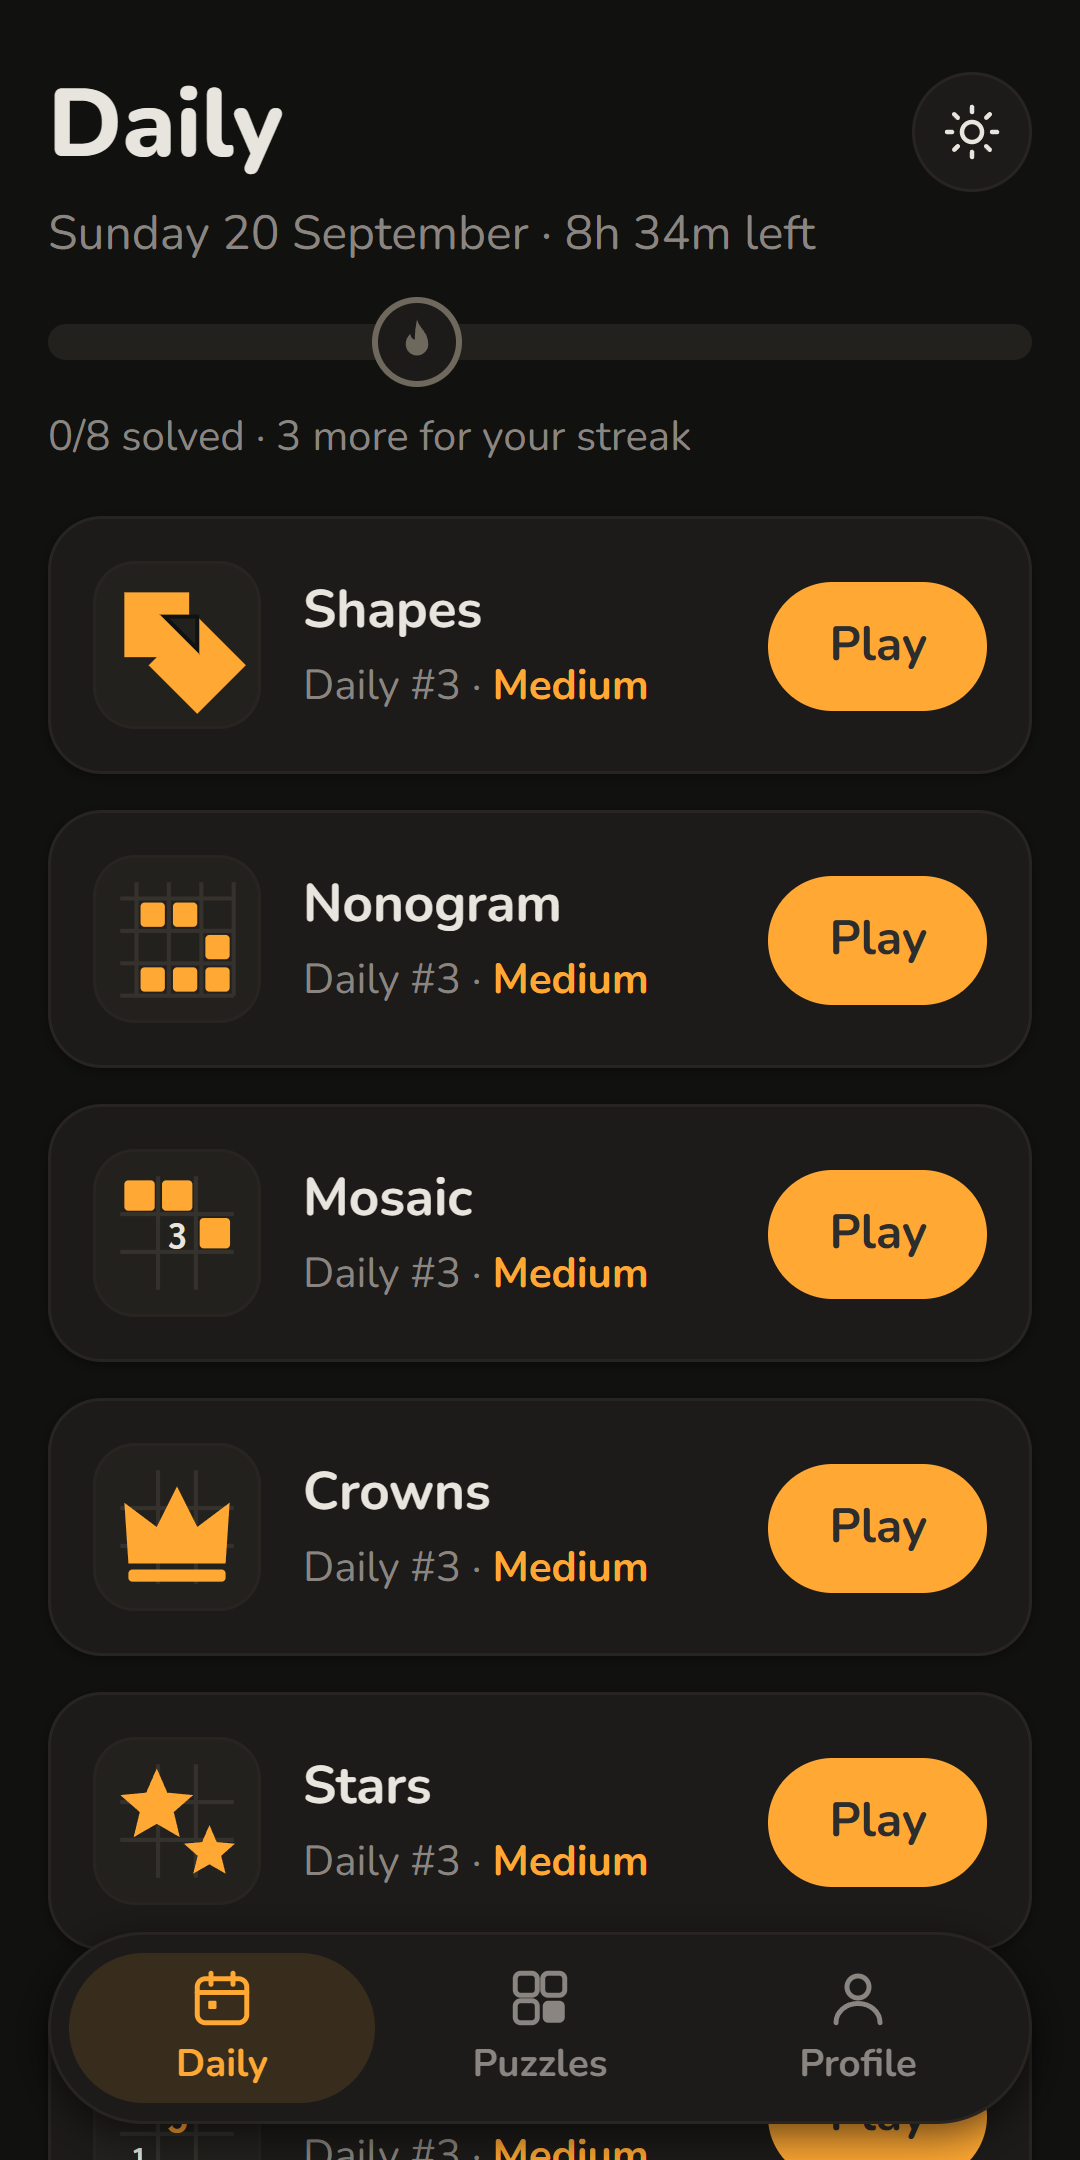
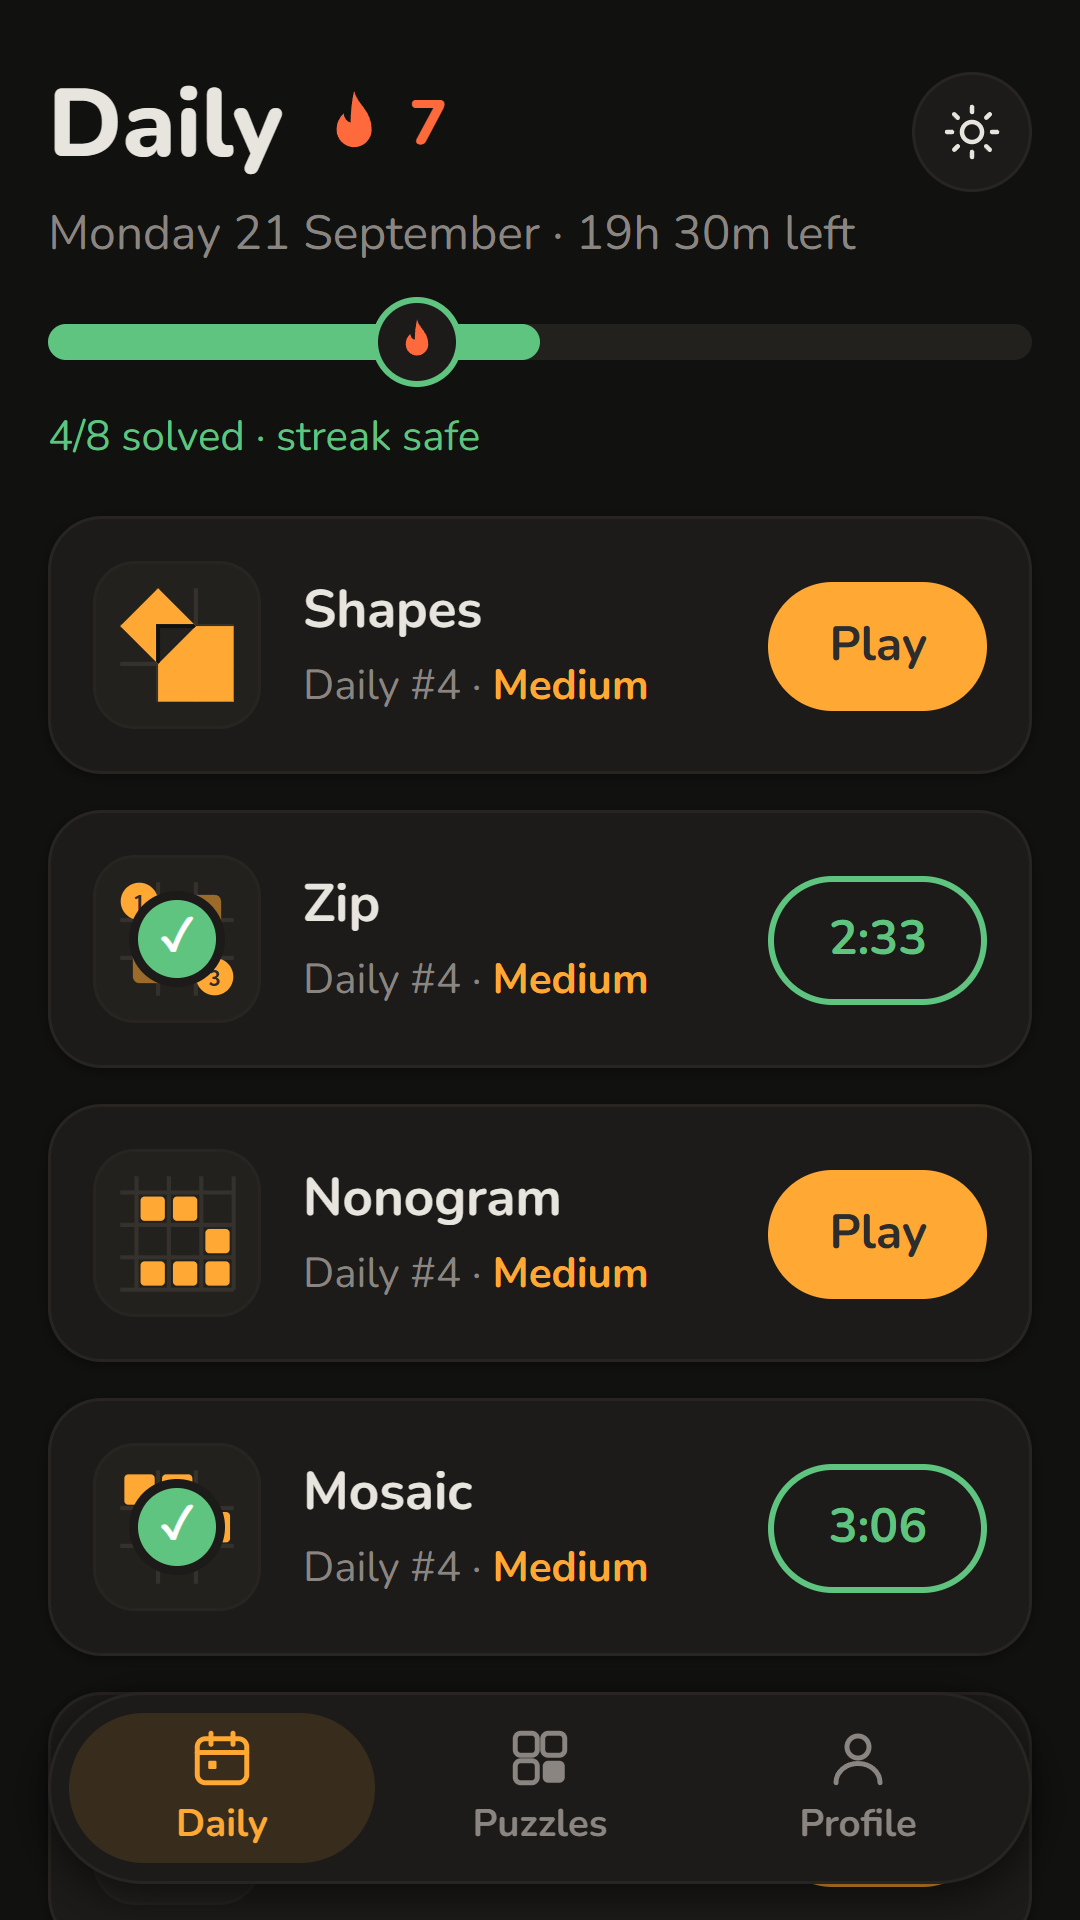
Reshoot the phone screenshots on a played account
The old set showed an account with nothing solved, an atom rendering
that has since been inverted, the small crosses, the old back arrow and
a 15x15 genius nonogram that no longer exists.

Screens now come from a seeded localStorage: a week of dailies, level
progress and two part finished boards. A store listing that shows an
untouched app sells nothing, and the half solved nonogram and crowns
boards are what the new crosses and colours are for.

1080x1920 rather than 2160. Play rejects anything longer than twice the
short side, and the extra height only added empty space under the
shorter boards.

Two traps cost a reshoot each and are written down in listing.md: a type
with a saved board must not also be solved that day, since the solve
record wins and hangs a Solved banner over an untouched board, and the
seed must not write theme, which would override the emulated scheme.

The tablet sets still show the old build.

Implemented with assistance from Claude Opus 5.

diff --git a/packages/core/scripts/screenshot-seed.ts b/packages/core/scripts/screenshot-seed.ts
@@ -1,0 +1,82 @@
+// Prints the localStorage a screenshot run should start from, so the store images show an
+// account that has been played rather than "0 solved" everywhere.
+import { generateNonogram } from '../src/nonogram/puzzle.ts';
+import { MARKED_EMPTY } from '../src/nonogram/clues.ts';
+import { generateCrowns } from '../src/regions/puzzle.ts';
+import { REGIONS_MARKED_EMPTY } from '../src/regions/solver.ts';
+import { dailyRef } from '../src/ref.ts';
+import { periodKey } from '../src/schedule.ts';
+import { PUZZLE_TYPES, type Difficulty, type PuzzleTypeId } from '../src/types.ts';
+
+const DAY = 86_400_000;
+const today = new Date();
+
+const solves: Record<string, unknown> = {};
+const record = (seconds: number, at: Date, hints = 0) => ({
+  solvedAt: at.toISOString(),
+  seconds,
+  hints,
+  moves: Math.round(seconds * 1.6),
+});
+
+// A week of dailies, today deliberately unfinished so the screen shows both states.
+for (let back = 1; back <= 6; back++) {
+  const day = new Date(today.getTime() - back * DAY);
+  const key = periodKey('daily', day);
+  for (const type of PUZZLE_TYPES) {
+    solves[`${type}:daily:${key}`] = record(90 + ((back * 37 + type.length * 13) % 240), day);
+  }
+}
+const todayKey = periodKey('daily', today);
+// The four types the screenshots show a board for stay unsolved: a solve record wins over
+// saved progress, which would put a Solved banner under a board nobody has touched.
+for (const type of ['zip', 'mosaic', 'stars', 'sudoku'] as PuzzleTypeId[]) {
+  solves[`${type}:daily:${todayKey}`] = record(120 + type.length * 11, today);
+}
+solves[`crowns:weekly:${periodKey('weekly', today)}`] = record(361, new Date(today.getTime() - 2 * DAY));
+
+// Level packs, far enough in to look lived in without claiming the whole game is done.
+const LEVELS: Record<string, Partial<Record<Difficulty, number>>> = {
+  shapes: { easy: 23, medium: 11, hard: 4 },
+  zip: { easy: 14, medium: 6 },
+  nonogram: { easy: 17, medium: 9, hard: 3 },
+  mosaic: { easy: 12, medium: 5 },
+  crowns: { easy: 15, medium: 7, hard: 2 },
+  stars: { easy: 9, medium: 3 },
+  sudoku: { easy: 13, medium: 6 },
+  killer: { easy: 8, medium: 2 },
+};
+for (const [type, byDifficulty] of Object.entries(LEVELS)) {
+  for (const [difficulty, count] of Object.entries(byDifficulty)) {
+    for (let n = 1; n <= (count as number); n++) {
+      solves[`${type}:level:${difficulty}:${n}`] = record(70 + ((n * 29) % 200), new Date(today.getTime() - (n % 5) * DAY));
+    }
+  }
+}
+
+const out: Record<string, string> = {
+  'ph:solves': JSON.stringify(solves),
+  'ph:name': 'Moritz',
+};
+for (const type of PUZZLE_TYPES) out[`ph:howto:${type}`] = '1';
+
+// Half solved boards read far better than empty ones.
+const progress = (id: string, state: number[], seconds: number, moves: number) => {
+  out[`ph:progress:${id}`] = JSON.stringify({ state, seconds, moves, hints: 0 });
+};
+
+{
+  const ref = dailyRef('nonogram');
+  const spec = generateNonogram(ref.seed, ref.difficulty);
+  const state = [...spec.solution].map((v, i) => (i % 7 < 4 ? v : v ? 0 : MARKED_EMPTY));
+  progress(`nonogram:daily:${todayKey}`, state, 142, 63);
+}
+
+{
+  const ref = dailyRef('crowns');
+  const spec = generateCrowns(ref.seed, ref.difficulty);
+  const state = [...spec.solution].map((v, i) => (v ? (i % 3 ? 1 : 0) : i % 2 ? REGIONS_MARKED_EMPTY : 0));
+  progress(`crowns:daily:${todayKey}`, state, 88, 41);
+}
+
+console.log(JSON.stringify(out));

diff --git a/store/listing.md b/store/listing.md
@@ -45,19 +45,25 @@ German is therefore written by hand: `store/paste/short-description-de.txt` and
 | --- | --- | --- |
 | App icon | 512x512, 32-bit PNG | `store/icon-512.png` |
 | Feature graphic | 1024x500, PNG or JPG | `store/feature-graphic.png` |
-| Phone screenshots | at least 2, 320-3840 px, long side at most twice the short side | `store/screenshots/phone/`, 6 shots, 1080x2160 |
+| Phone screenshots | at least 2, 320-3840 px, long side at most twice the short side | `store/screenshots/phone/`, 6 shots, 1080x1920 |
 | 7-inch tablet screenshots | own slot in the console | `store/screenshots/tablet7/`, 4 shots, 1200x1920 |
 | 10-inch tablet screenshots | own slot in the console | `store/screenshots/tablet10/`, 4 shots, 1600x2560 |
 
 Themes alternate across the set rather than being shown as a split image, so every shot is a real
-screen and Play sees no composite. Phone shots are 1080x2160 on purpose: Play rejects a screenshot
-whose long side is more than twice its short side, and a real 20:9 phone capture (1080x2340) misses
-that by a hair.
+screen and Play sees no composite. Phone shots are 1080x1920: Play rejects a screenshot whose long
+side is more than twice its short side, which a real 20:9 capture (1080x2340) misses by a hair, and
+2160 left a third of the frame empty under the shorter boards.
 
-Screenshots are taken from the live web build at puzzles.vexury.dev through Chrome with remote
-debugging, at the device sizes above and with `prefers-color-scheme` forced per shot. The web build
-and the app share the same UI code, and a puzzle screen can be addressed directly, for example
-`/play?t=killer&d=medium&s=<seed>&p=daily&k=<date>`, which beats tapping through the app.
+`node scripts/screenshots.mjs <base-url> <out-dir> phone` from `apps/web` takes the set through
+Chrome's remote debugging port, forcing `prefers-color-scheme` per shot. Point it at a local
+`vite preview` rather than the live site, or the images will show whatever was deployed last.
+
+It first seeds localStorage from `packages/core/scripts/screenshot-seed.ts`, which invents a week
+of solves, part finished boards and level progress. Without it every screen reads "0 solved", and a
+store listing that shows an untouched account sells nothing. Two rules that cost a reshoot each
+when broken: a type that carries a half finished board must not also have a solve record for the
+same day, because the record wins and puts a Solved banner over an untouched board; and the seed
+must not write `theme`, since it then overrides the emulated colour scheme.
 
 Both images are generated: `node scripts/android-icons.mjs` from `apps/web` renders the launcher
 icons, `node scripts/store-assets.mjs` the listing icon plus the PWA icons in `public/`, and
